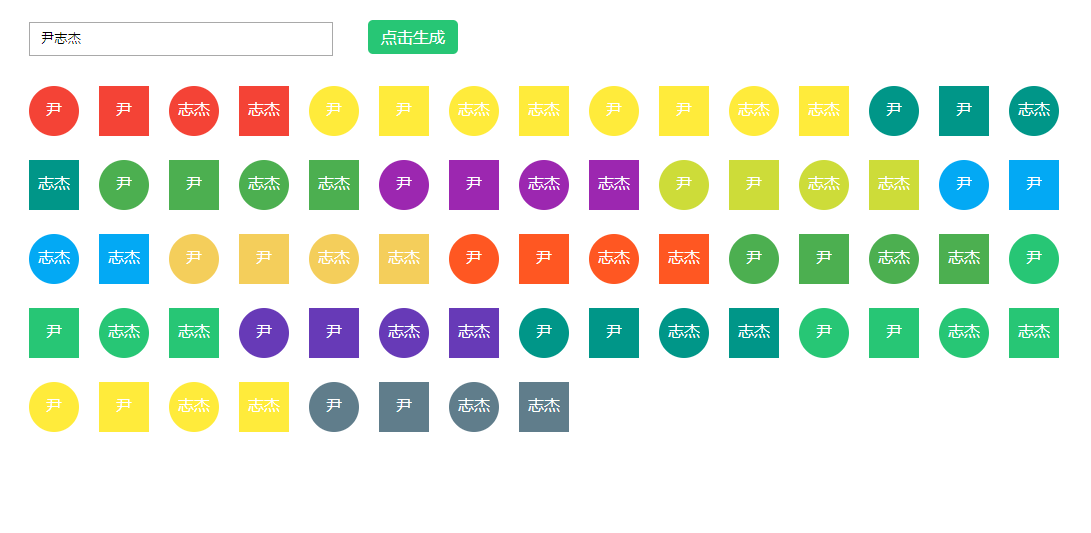
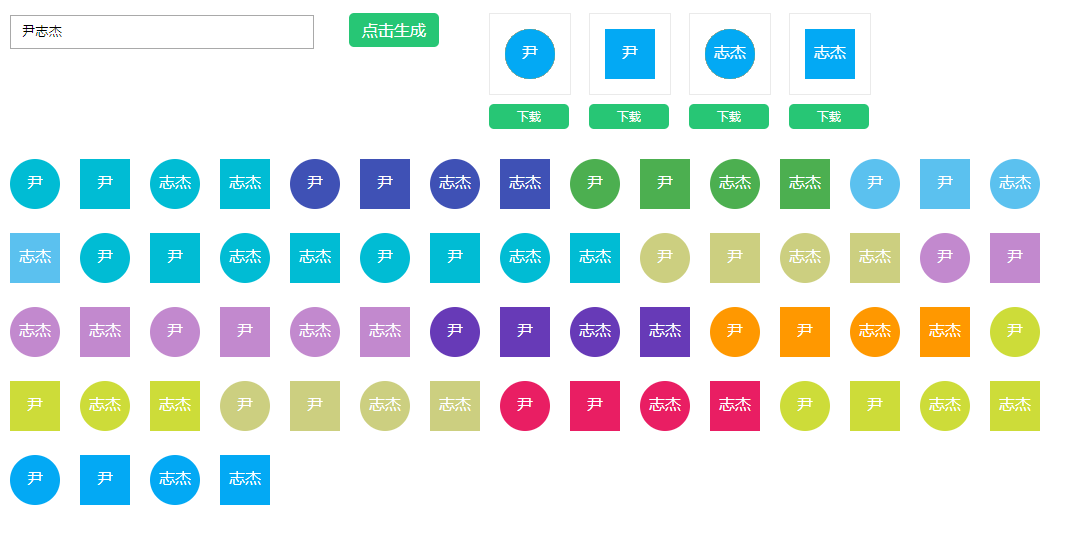
修改优化

diff --git a/js/index.js b/js/index.js
@@ -25,6 +25,13 @@ $(function(){
     crateImage();
   })
 
+  //输入框回车
+  $('.name-input').keydown(function(e){ 
+    if (e.keyCode == 13) {  
+      crateImage();
+    }  
+  });
+
 
   function crateImage() {
     var index = Math.floor((Math.random()*options.backgroundColors.length));

diff --git a/README.md b/README.md
@@ -6,7 +6,9 @@
 
 可以取 `first name` 或 `last name`, 如果是英文，则会转为大写。 具体示例如下:
 
-生成后可以右键下载对应 `SVG文件`
+生成后可以右键下载对应 `SVG文件`, 同时提供了 `png` 格式的图片的下载，见下图。
+
+每次支取最后生成的四张。
 
 <img src="img/data1.jpg">
 <img src="img/data2.jpg">
